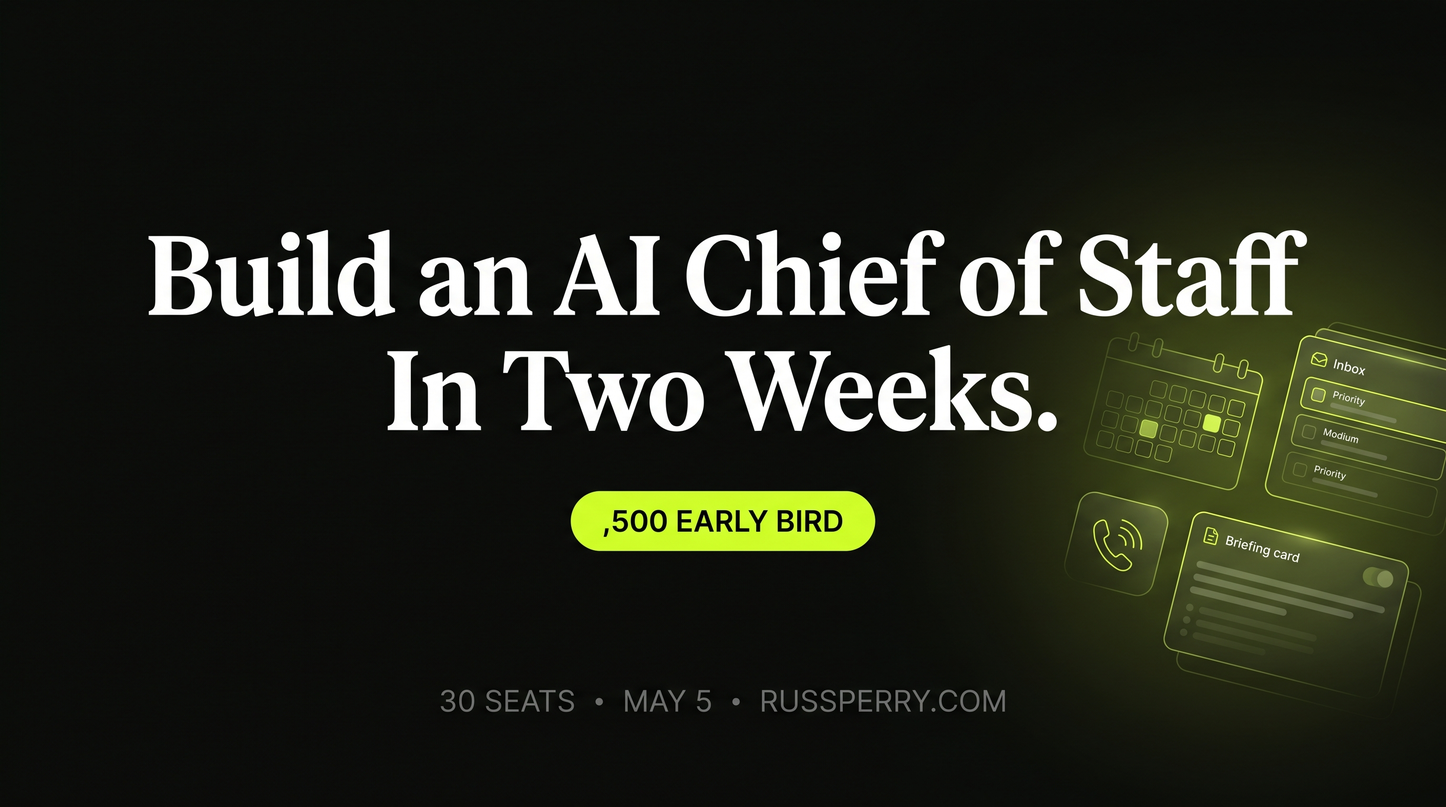
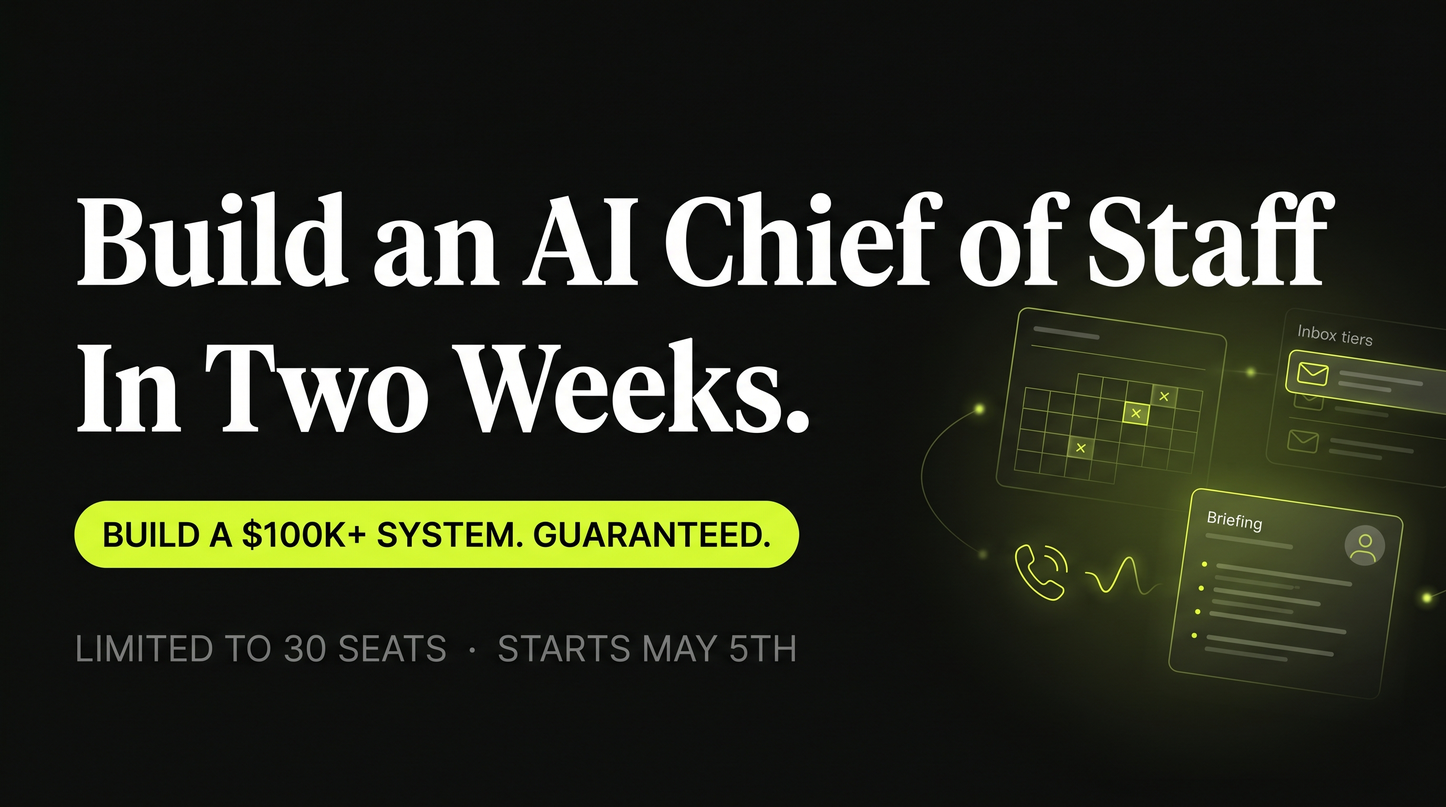
Update OG image: removed russperry.com, new CTA copy '00K+ system guaranteed', bumped cache v=3

diff --git a/index.html b/index.html
@@ -10,14 +10,14 @@
 <meta property="og:description" content="In 2 weeks, build a fully operating AI Chief of Staff. 30 seats. Starts May 5.">
 <meta property="og:type" content="website">
 <meta property="og:url" content="https://russperry.github.io/ai-for-operators/">
-<meta property="og:image" content="https://russperry.github.io/ai-for-operators/og-image.png?v=2">
+<meta property="og:image" content="https://russperry.github.io/ai-for-operators/og-image.png?v=3">
 <meta property="og:image:width" content="1200">
 <meta property="og:image:height" content="630">
-<meta property="og:image:alt" content="Build an AI Chief of Staff — In Two Weeks. $1,500 Early Bird.">
+<meta property="og:image:alt" content="Build an AI Chief of Staff — In Two Weeks. Build a $100K+ system. Guaranteed.">
 <meta name="twitter:card" content="summary_large_image">
 <meta name="twitter:title" content="AI Chief of Staff — A 2-Week Intensive for Founders & CEOs">
-<meta name="twitter:description" content="In 2 weeks, build a fully operating AI Chief of Staff. 30 seats. Starts May 5.">
-<meta name="twitter:image" content="https://russperry.github.io/ai-for-operators/og-image.png?v=2">
+<meta name="twitter:description" content="In 2 weeks, build a fully operating AI Chief of Staff. Limited to 30 seats. Starts May 5.">
+<meta name="twitter:image" content="https://russperry.github.io/ai-for-operators/og-image.png?v=3">
 <link rel="preconnect" href="https://fonts.googleapis.com">
 <link rel="preconnect" href="https://fonts.gstatic.com" crossorigin>
 <link href="https://fonts.googleapis.com/css2?family=Instrument+Serif:ital@0;1&family=Inter:wght@300;400;500;600&display=swap" rel="stylesheet">
